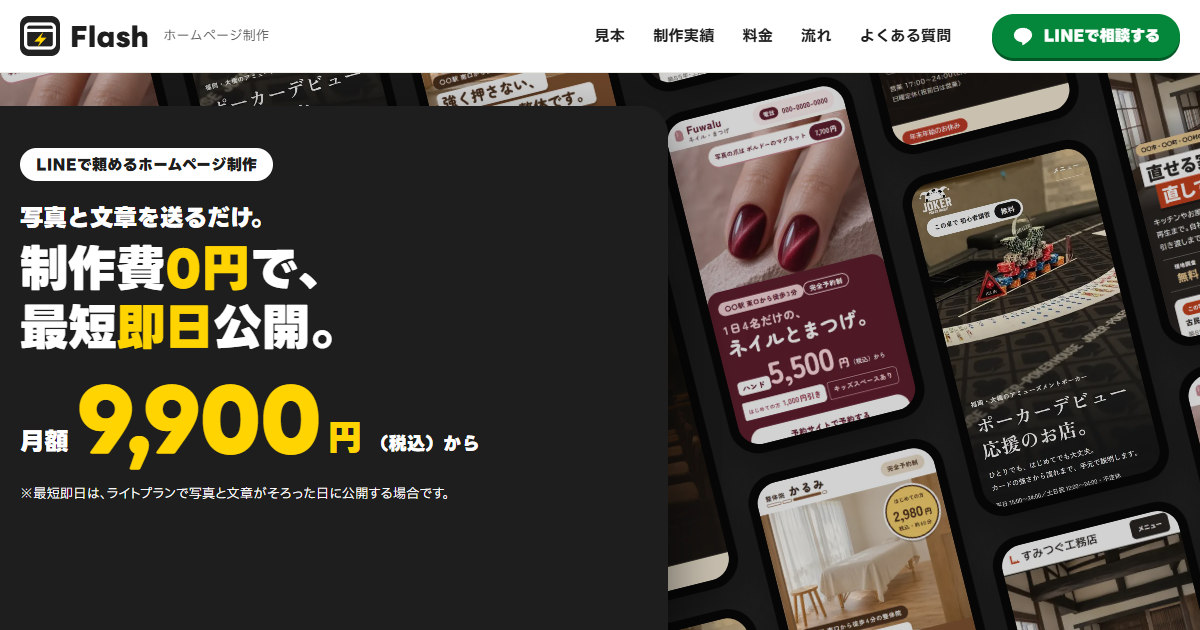
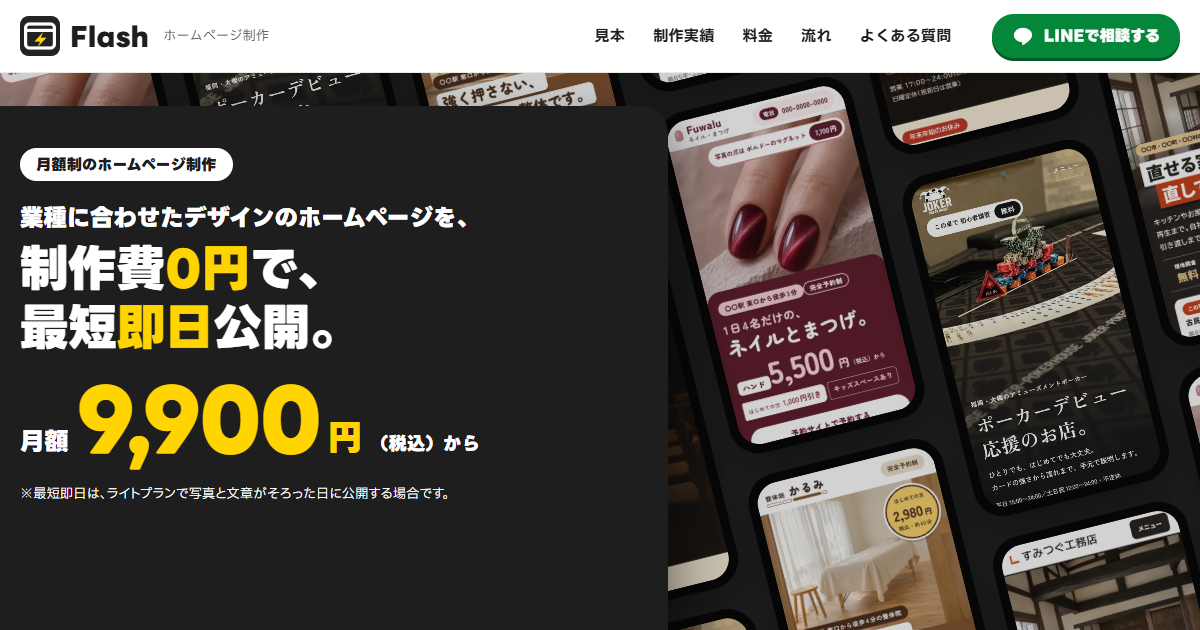
売り文句から「LINEで頼める」「送るだけ」を外し、6か月の一括払いの表記を外す
- 1画面目: 札を「月額制のホームページ制作」に、見出しの上の一文を「業種に合わせたデザインのホームページを、」に
- ページ名・説明文からも「LINEで頼める」「LINEで送るだけ」を外す
- お悩みの答え・特徴の3つ目（業種に合わせたデザイン）・流れの4つ目（作って、直して、公開）を書き直す
- 料金の板の「6か月一括」の行、流れとよくあるご質問の一括払いの文を外す

Changed region(s): [[0.0, 0.3016, 0.4008, 0.3619], [0.0308, 0.2111, 0.2467, 0.3016]]

diff --git a/index.html b/index.html
@@ -3,8 +3,8 @@
 <head>
 <meta charset="utf-8">
 <meta name="viewport" content="width=device-width, initial-scale=1, viewport-fit=cover">
-<title>制作費0円・最短即日公開のホームページ制作 Flash｜LINEで頼める・月額9,900円（税込）から</title>
-<meta name="description" content="制作費0円・最短即日公開。写真と文章をLINEで送るだけで、ホームページを作って公開します。月額9,900円（税込）から。業種ごとの見本を見て選べます。">
+<title>制作費0円・最短即日公開のホームページ制作 Flash｜月額9,900円（税込）から</title>
+<meta name="description" content="制作費0円・最短即日公開。業種に合わせたデザインで、お店のホームページを作ります。月額9,900円（税込）から。業種ごとの見本を見て選べます。">
 <link rel="canonical" href="https://flash22hp-del.github.io/">
 <link rel="icon" href="img/brand/favicon.svg" type="image/svg+xml">
 <link rel="icon" href="img/brand/favicon-32.png" sizes="32x32" type="image/png">
@@ -12,7 +12,7 @@
 <meta property="og:type" content="website">
 <meta property="og:url" content="https://flash22hp-del.github.io/">
 <meta property="og:title" content="制作費0円・最短即日公開のホームページ制作 Flash">
-<meta property="og:description" content="制作費0円・最短即日公開。写真と文章をLINEで送るだけで、ホームページを作って公開します。月額9,900円（税込）から。">
+<meta property="og:description" content="制作費0円・最短即日公開。業種に合わせたデザインで、お店のホームページを作ります。月額9,900円（税込）から。">
 <meta property="og:image" content="https://flash22hp-del.github.io/img/og.png">
 <link rel="preconnect" href="https://fonts.googleapis.com">
 <link rel="preconnect" href="https://fonts.gstatic.com" crossorigin>
@@ -97,8 +97,8 @@
   </div>
   <div class="top-in">
     <div class="top-copy">
-      <p class="top-tag" data-budoux><span style="word-break:keep-all;overflow-wrap:anywhere">LINEで頼めるホームページ制作</span></p>
-      <h1 data-budoux><span style="word-break:keep-all;overflow-wrap:anywhere"><span class="top-sub">写真と文章を送るだけ。</span>制作費<span class="mk"><span class="nw">0円</span></span>で、<br>最短<span class="mk">即日</span>公開。</span></h1>
+      <p class="top-tag" data-budoux><span style="word-break:keep-all;overflow-wrap:anywhere">月額制のホームページ制作</span></p>
+      <h1 data-budoux><span style="word-break:keep-all;overflow-wrap:anywhere"><span class="top-sub">業種に合わせたデザインのホームページを、</span>制作費<span class="mk"><span class="nw">0円</span></span>で、<br>最短<span class="mk">即日</span>公開。</span></h1>
       <p class="top-price" data-budoux><span style="word-break:keep-all;overflow-wrap:anywhere"><span class="m">月額</span><span class="n">9,900</span><span class="y">円</span><span class="t">（税込）から</span></span></p>
       <div class="top-terms">
         <p class="top-note" data-budoux><span style="word-break:keep-all;overflow-wrap:anywhere">※最短即日は、ライトプランで写真と文章がそろった日に公開する場合です。</span></p>
@@ -121,8 +121,8 @@
     <li data-budoux><svg class="ic" width="18" height="18" aria-hidden="true"><use href="#i-check"/></svg><p data-budoux><span style="word-break:keep-all;overflow-wrap:anywhere">パソコンが苦手で、何から始めればいいか分からない</span></p></li>
   </ul>
   <div class="worry-ans">
-    <p class="worry-ans-t" data-budoux><span style="word-break:keep-all;overflow-wrap:anywhere">Flashなら、<wbr><b>写真と文章を<wbr>LINEで送るだけ。</b></span></p>
-    <p class="worry-ans-s" data-budoux><span style="word-break:keep-all;overflow-wrap:anywhere">制作費<span class="nw">0円</span>・月額<span class="nw">9,900円</span>（税込）から、お店のホームページを持てます。</span></p>
+    <p class="worry-ans-t" data-budoux>Flashなら、<wbr><b>制作費<span class="nw">0円</span>・<wbr>月額<span class="nw">9,900円</span>から。</b></p>
+    <p class="worry-ans-s" data-budoux><span style="word-break:keep-all;overflow-wrap:anywhere">デザインから公開、公開後の更新まで、おまかせください。</span></p>
   </div>
 </section>
 
@@ -140,14 +140,14 @@
       <p data-budoux><span style="word-break:keep-all;overflow-wrap:anywhere">ライトプランは、写真と文章がそろえば、最短でその日に公開できます。</span></p>
     </li>
     <li class="feat-i" data-budoux>
-      <span class="feat-ic"><svg class="ic" width="28" height="28" aria-hidden="true"><use href="#i-line"/></svg></span>
-      <h3 data-budoux><span style="word-break:keep-all;overflow-wrap:anywhere">やり取りはLINEで</span></h3>
-      <p data-budoux><span style="word-break:keep-all;overflow-wrap:anywhere">写真と文章を、スマホのLINEで送るだけ。パソコンが苦手でも大丈夫です。電話での打ち合わせも可能です。</span></p>
+      <span class="feat-ic"><svg class="ic" width="28" height="28" aria-hidden="true"><use href="#i-pen"/></svg></span>
+      <h3 data-budoux><span style="word-break:keep-all;overflow-wrap:anywhere">業種に合わせたデザイン</span></h3>
+      <p data-budoux><span style="word-break:keep-all;overflow-wrap:anywhere">業種ごとの見本をもとに、お店の写真と文章で仕上げます。完全オリジナルのデザインも選べます。</span></p>
     </li>
     <li class="feat-i" data-budoux>
       <span class="feat-ic"><svg class="ic" width="28" height="28" aria-hidden="true"><use href="#i-swap"/></svg></span>
       <h3 data-budoux><span style="word-break:keep-all;overflow-wrap:anywhere">公開後の更新もおまかせ</span></h3>
-      <p data-budoux><span style="word-break:keep-all;overflow-wrap:anywhere">営業時間の変更や写真の入れ替えも、LINEで頼むだけ。<span class="nw">月2回</span>から、月額のうちで対応します。</span></p>
+      <p data-budoux><span style="word-break:keep-all;overflow-wrap:anywhere">営業時間の変更や写真の入れ替えは、こちらで対応します。<span class="nw">月2回</span>から、月額料金に含まれています。</span></p>
     </li>
   </ul>
 </section>
@@ -338,7 +338,6 @@
           <div><dt data-budoux>ページ数</dt><dd data-budoux><span class="nw">1ページ</span></dd></div>
           <div><dt data-budoux>更新回数</dt><dd data-budoux><span class="nw">月2回</span></dd></div>
           <div><dt data-budoux>公開まで</dt><dd data-budoux>最短即日<span class="pt-kome">※</span></dd></div>
-          <div><dt data-budoux><span style="word-break:keep-all;overflow-wrap:anywhere" class="nw">6か月一括</span></dt><dd data-budoux><span class="nw">54,000円</span><small>月あたり<wbr><span class="nw">9,000円</span></small></dd></div>
           <div class="f2-sample"><dt data-budoux>見本</dt><dd data-budoux><span style="word-break:keep-all;overflow-wrap:anywhere"><a href="samples/izakaya/">居酒屋</a>、<a href="samples/seitai/">整体</a>、<a href="samples/nail/">ネイル</a></span></dd></div>
         </dl>
       </article>
@@ -352,7 +351,6 @@
           <div><dt data-budoux>ページ数</dt><dd data-budoux><span class="nw">6ページ</span><wbr>まで</dd></div>
           <div><dt data-budoux>更新回数</dt><dd data-budoux><span class="nw">月5回</span></dd></div>
           <div><dt data-budoux>公開まで</dt><dd data-budoux>最短<wbr><span class="nw">1週間</span></dd></div>
-          <div><dt data-budoux><span style="word-break:keep-all;overflow-wrap:anywhere" class="nw">6か月一括</span></dt><dd data-budoux><span class="nw">90,000円</span><small>月あたり<wbr><span class="nw">15,000円</span></small></dd></div>
           <div class="f2-sample"><dt data-budoux>見本</dt><dd data-budoux><span style="word-break:keep-all;overflow-wrap:anywhere">まだありません<small data-assumed=""><a href="#mihon">ライトの見本</a>を土台に、お店に合わせて調整します</small></span></dd></div>
         </dl>
       </article>
@@ -366,7 +364,6 @@
           <div><dt data-budoux>ページ数</dt><dd data-budoux><span class="nw">10ページ</span><wbr>まで</dd></div>
           <div><dt data-budoux>更新回数</dt><dd data-budoux><span class="nw">月10回</span></dd></div>
           <div><dt data-budoux>公開まで</dt><dd data-budoux>最短<wbr><span class="nw">3週間</span></dd></div>
-          <div><dt data-budoux><span style="word-break:keep-all;overflow-wrap:anywhere" class="nw">6か月一括</span></dt><dd data-budoux><span class="nw">135,000円</span><small>月あたり<wbr><span class="nw">22,500円</span></small></dd></div>
           <div class="f2-sample"><dt data-budoux>見本</dt><dd data-budoux><span style="word-break:keep-all;overflow-wrap:anywhere"><a href="samples/reform/">工務店</a></span></dd></div>
         </dl>
       </article>
@@ -411,7 +408,7 @@
     <li class="flow-i" data-budoux>
       <span class="flow-n" aria-hidden="true">2</span>
       <h3 data-budoux>お申し込み</h3>
-      <p data-budoux><span style="word-break:keep-all;overflow-wrap:anywhere">プランを決めて、お申し込み。お支払いはクレジットカードで、<span class="nw">毎月払い</span>か<span class="nw">6か月分</span>の<span class="nw">一括払い</span>を選べます。</span></p>
+      <p data-budoux><span style="word-break:keep-all;overflow-wrap:anywhere">プランを決めて、お申し込み。お支払いはクレジットカードです。</span></p>
     </li>
     <li class="flow-i" data-budoux>
       <span class="flow-n" aria-hidden="true">3</span>
@@ -421,7 +418,7 @@
     <li class="flow-i" data-budoux>
       <span class="flow-n" aria-hidden="true">4</span>
       <h3 data-budoux><span style="word-break:keep-all;overflow-wrap:anywhere">確認して、公開</span></h3>
-      <p data-budoux><span style="word-break:keep-all;overflow-wrap:anywhere">できあがったページを、LINEでお送りします。OKをいただいたら公開です。</span></p>
+      <p data-budoux><span style="word-break:keep-all;overflow-wrap:anywhere">Flashがページを作り、確認用のページをお送りします。直したい所を伝えていただき、OKになったら公開です。</span></p>
     </li>
   </ol>
   <div class="prep">
@@ -449,7 +446,7 @@
     </details>
     <details class="faq-i">
       <summary data-budoux><span style="word-break:keep-all;overflow-wrap:anywhere">パソコンが苦手でも、頼めますか？</span></summary>
-      <div class="faq-a"><p data-budoux><span style="word-break:keep-all;overflow-wrap:anywhere">はい。写真と文章を、スマホのLINEで送るだけです。電話での打ち合わせも可能です。</span></p></div>
+      <div class="faq-a"><p data-budoux><span style="word-break:keep-all;overflow-wrap:anywhere">はい。やり取りは、スマホのLINEでできます。電話での打ち合わせも可能です。</span></p></div>
     </details>
     <details class="faq-i">
       <summary data-budoux><span style="word-break:keep-all;overflow-wrap:anywhere">用意するものは、何ですか？</span></summary>
@@ -469,7 +466,7 @@
     </details>
     <details class="faq-i">
       <summary data-budoux><span style="word-break:keep-all;overflow-wrap:anywhere">支払い方法は、何がありますか？</span></summary>
-      <div class="faq-a"><p data-budoux><span style="word-break:keep-all;overflow-wrap:anywhere">クレジットカードです（決済はStripe）。<span class="nw">毎月払い</span>か、<span class="nw">6か月分</span>の<span class="nw">一括払い</span>を選べます。<span class="nw">一括払い</span>は、月あたりの金額が安くなります。</span></p></div>
+      <div class="faq-a"><p data-budoux><span style="word-break:keep-all;overflow-wrap:anywhere">クレジットカードです（決済はStripe）。月額料金を、毎月お支払いいただきます。</span></p></div>
     </details>
     <details class="faq-i">
       <summary data-budoux><span style="word-break:keep-all;overflow-wrap:anywhere">電話でも相談できますか？</span></summary>

diff --git a/style.css b/style.css
@@ -962,3 +962,7 @@ small { font-size: inherit; }
   .faq-a { padding: 0 14px 16px; column-gap: 10px; }
 }
 @media (prefers-reduced-motion: reduce) { .faq-i summary::after { transition: none; } }
+
+/* 2026-11-25 料金の板から「6か月一括」の行を外した（本人「6か月支払いみたいなやつもいらん」）。行の数を 7 → 6 に */
+.f2-plans { grid-template-rows: repeat(6, auto); }
+.f2-plan { grid-row: span 6; }
